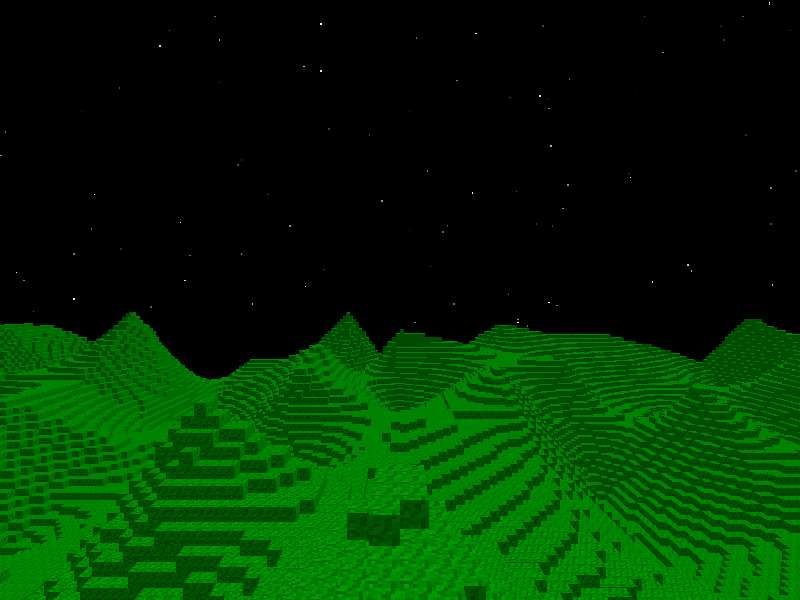
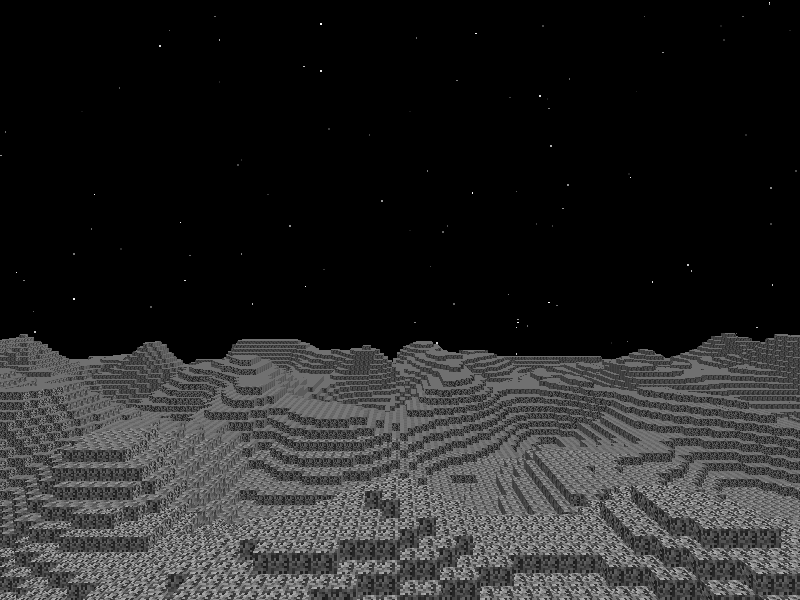
Use Perlin noise
Using the larger grid between random values in our heightmap means there
are slopes. However, the terrain still have sharp points at the grid
lines.

Rather than interpolating between random values, we can use a different
algorithm that produces smoother values. Perlin noise uses 2D vectors
instead of points at the grid intersections. It takes the dot product
between the vectors at each corner and the position within the grid.

diff --git a/src/world.rs b/src/world.rs
@@ -148,29 +148,64 @@ impl Camera {
 }
 
 /// Describes how elevation varies across the x-z plane.
+///
+/// For now, the heightmap works on local coordinates from 0..CHUNK_SIDE_LENGTH on the X and Z
+/// axis. The returned height must be within 0..CHUNK_SIDE_LENGTH.
+#[derive(Debug)]
 struct Heightmap {
     cell_size: f32,
     num_x_cells: u32,
     num_z_cells: u32,
-    heights: Vec<f32>,
+    gradients: Vec<Vec2>,
 }
 
 impl Heightmap {
+    /// Constructs a Perlin noise grid with random gradients.
     fn new(cell_size: f32, num_x_cells: u32, num_z_cells: u32) -> Self {
         let mut rng = RandomNumberGenerator::with_seed(32131);
 
         let num_values = ((num_z_cells + 1) * (num_x_cells + 1)) as usize;
-        let mut heights = Vec::with_capacity(num_values);
+        let mut gradients = Vec::with_capacity(num_values);
 
         for _ in 0..num_values {
-            heights.push(rng.gen_f32());
+            let angle = rng.gen_f32() * std::f32::consts::PI * 2.0;
+            gradients.push(Vec2::from_angle(angle));
         }
 
         Self {
             cell_size,
             num_x_cells,
             num_z_cells,
-            heights,
+            gradients,
+        }
+    }
+
+    /// Constructs a Perlin noise grid with the given gradients.
+    ///
+    /// The number of gradients must match the number of corners in the Perlin grid. The first
+    /// gradient is used for x_min / z_min in the grid. The next gradient moves along the x-axis
+    /// first until it reaches x_max, then it moves onto the next row in the z axis. This function
+    /// asserts that enough gradients are given to fit all of the grid corners.
+    #[cfg(test)]
+    fn with_gradients(
+        gradients: Vec<Vec2>,
+        cell_size: f32,
+        num_x_cells: u32,
+        num_z_cells: u32,
+    ) -> Self {
+        let expected_num_gradients = (num_x_cells + 1) * (num_z_cells + 1);
+
+        assert_eq!(
+            gradients.len(),
+            expected_num_gradients as usize,
+            "wrong number of gradients for heightmap"
+        );
+
+        Self {
+            cell_size,
+            num_x_cells,
+            num_z_cells,
+            gradients,
         }
     }
 
@@ -192,7 +227,8 @@ impl Heightmap {
         let x0_height = math::interpolate(x0z0_height, x0z1_height, z_frac);
         let x1_height = math::interpolate(x1z0_height, x1z1_height, z_frac);
 
-        math::interpolate(x0_height, x1_height, x_frac)
+        let height = math::interpolate(x0_height, x1_height, x_frac);
+        (height + 1.0) * 0.5
     }
 
     fn is_out_of_range(&self, xz_position: &Vec2) -> bool {
@@ -223,27 +259,59 @@ impl Heightmap {
 
     fn height_at_x0z0(&self, normalized_position: &Vec2) -> f32 {
         let Vec2(x, z) = *normalized_position;
-        self.height_at_index(x as usize, z as usize)
+
+        let xi = x as usize;
+        let zi = z as usize;
+
+        let corner_position = Vec2(xi as f32, zi as f32);
+        let gradient = self.gradient_at_index(xi, zi);
+
+        let offset = *normalized_position - corner_position;
+        gradient.dot(&offset)
     }
 
     fn height_at_x1z0(&self, normalized_position: &Vec2) -> f32 {
         let Vec2(x, z) = *normalized_position;
-        self.height_at_index((x as usize) + 1, z as usize)
+
+        let xi = x as usize + 1;
+        let zi = z as usize;
+
+        let corner_position = Vec2(xi as f32, zi as f32);
+        let gradient = self.gradient_at_index(xi, zi);
+
+        let offset = *normalized_position - corner_position;
+        gradient.dot(&offset)
     }
 
     fn height_at_x0z1(&self, normalized_position: &Vec2) -> f32 {
         let Vec2(x, z) = *normalized_position;
-        self.height_at_index(x as usize, (z as usize) + 1)
+
+        let xi = x as usize;
+        let zi = z as usize + 1;
+
+        let corner_position = Vec2(xi as f32, zi as f32);
+        let gradient = self.gradient_at_index(xi, zi);
+
+        let offset = *normalized_position - corner_position;
+        gradient.dot(&offset)
     }
 
     fn height_at_x1z1(&self, normalized_position: &Vec2) -> f32 {
         let Vec2(x, z) = *normalized_position;
-        self.height_at_index(x as usize + 1, z as usize + 1)
+
+        let xi = x as usize + 1;
+        let zi = z as usize + 1;
+
+        let corner_position = Vec2(xi as f32, zi as f32);
+        let gradient = self.gradient_at_index(xi, zi);
+
+        let offset = *normalized_position - corner_position;
+        gradient.dot(&offset)
     }
 
-    fn height_at_index(&self, xi: usize, zi: usize) -> f32 {
+    fn gradient_at_index(&self, xi: usize, zi: usize) -> Vec2 {
         let i = zi * self.num_x_cells as usize + xi;
-        self.heights[i]
+        self.gradients[i]
     }
 }
 
@@ -253,5 +321,90 @@ impl Coordinates {
     fn center(&self) -> Vec3 {
         let Self(x, y, z) = *self;
         Vec3(x as f32 + 0.5, y as f32 + 0.5, z as f32 + 0.5)
+    }
+}
+
+#[cfg(test)]
+mod tests {
+    use std::f32::consts::*;
+
+    use super::*;
+
+    #[test]
+    fn perlin_noise_single_grid_cell() {
+        // Create a 2D Perlin noise grid with one cell and four gradients (one for each corner). In
+        // this example, all gradients are unit vectors that point along either the X or Z axis.
+        let gradients = vec![
+            Vec2::from_angle(0.0),
+            Vec2::from_angle(-PI),
+            Vec2::from_angle(FRAC_PI_2),
+            Vec2::from_angle(-FRAC_PI_2),
+        ];
+
+        let heightmap = Heightmap::with_gradients(gradients, 1.0, 1, 1);
+
+        let examples = [
+            // Always zero at the grid corner
+            (Vec2(0.0, 0.0), 0.0),
+            // Halfway between two corners on X axis, both with gradients facing inward (max strength)
+            (Vec2(0.5, 0.0), 0.5),
+            // Strength drops as approaching either corner. Should drop equally on both sides.
+            (Vec2(0.25, 0.0), 0.375),
+            (Vec2(0.75, 0.0), 0.375),
+            // Along the Z axis, gradient faces away so should be negative
+            (Vec2(0.0, 0.5), -0.25),
+            (Vec2(0.0, 0.25), -0.1875),
+            (Vec2(0.0, 0.75), -0.1875),
+            // In the middle. The two gradients along Z=0 contribute 0.5, and the two gradients at
+            // Z=1 are facing opposite directions and cancel each other out (so 0.0), which results
+            // in an interpolated value of 0.25.
+            (Vec2(0.5, 0.5), 0.25),
+        ];
+
+        for (position, expected) in examples.into_iter() {
+            let actual = heightmap.height_at(&position);
+
+            assert!((actual - expected).abs() < 0.00001);
+        }
+    }
+
+    #[test]
+    fn perlin_noise_varying_cell_size() {
+        let small_cell_heightmap = Heightmap::new(1.0, 2, 2);
+        let big_cell_heightmap = Heightmap::new(16.0, 2, 2);
+
+        // Positions for the small cell and big cell heightmaps. The left and right values should
+        // return the same height value since they're in the same spot relative to the size of the
+        // grid.
+        let examples = [
+            (Vec2(0.0, 0.0), Vec2(0.0, 0.0)),
+            (Vec2(1.5, 0.5), Vec2(24.0, 8.0)),
+            (Vec2(1.0, 1.0), Vec2(16.0, 16.0)),
+        ];
+
+        for (small_position, big_position) in examples.into_iter() {
+            let small_cell_height = small_cell_heightmap.height_at(&small_position);
+            let big_cell_height = big_cell_heightmap.height_at(&big_position);
+
+            assert_eq!(small_cell_height, big_cell_height);
+        }
+    }
+
+    #[test]
+    fn perlin_noise_outside_of_cell_range() {
+        let heightmap = Heightmap::new(16.0, 2, 2);
+
+        // Positions outside of the grid range should return 0.0 height.
+        let examples = [
+            Vec2(-0.0001, 0.0),
+            Vec2(32.0, 32.0),
+            Vec2(32.0, 0.0),
+            Vec2(16.0, 32.0),
+            Vec2(-0.0001, 10.0),
+        ];
+
+        for position in examples.into_iter() {
+            assert_eq!(heightmap.height_at(&position), 0.0);
+        }
     }
 }

diff --git a/src/math.rs b/src/math.rs
@@ -1,13 +1,31 @@
-use std::ops::{Add, Div};
+use std::ops::{Add, Div, Sub};
 
 #[derive(Debug, Copy, Clone)]
 pub(crate) struct Vec2(pub(crate) f32, pub(crate) f32);
+
+impl Vec2 {
+    pub(crate) fn from_angle(angle: f32) -> Self {
+        Self(angle.cos(), angle.sin())
+    }
+
+    pub(crate) fn dot(&self, rhs: &Vec2) -> f32 {
+        self.0 * rhs.0 + self.1 * rhs.1
+    }
+}
 
 impl Div<f32> for Vec2 {
     type Output = Vec2;
 
     fn div(self, denominator: f32) -> Self::Output {
         Self(self.0 / denominator, self.1 / denominator)
+    }
+}
+
+impl Sub<Vec2> for Vec2 {
+    type Output = Vec2;
+
+    fn sub(self, rhs: Vec2) -> Self::Output {
+        Vec2(self.0 - rhs.0, self.1 - rhs.1)
     }
 }
 
@@ -124,6 +142,53 @@ mod tests {
         let vecs_equal = (a.0 - b.0).abs() < TOLERANCE
             && (a.1 - b.1).abs() < TOLERANCE
             && (a.2 - b.2).abs() < TOLERANCE;
+        assert!(
+            vecs_equal,
+            "vecs are not equal:\n  left: {:?}\n right: {:?}\n",
+            a, b
+        );
+    }
+
+    #[test]
+    fn check_distribution_of_random_f32s() {
+        const NUM_EXAMPLES: u32 = 10_000;
+        const NUM_BUCKETS: u32 = 10;
+        const EXPECTED_BUCKET_COUNT: u32 = NUM_EXAMPLES / NUM_BUCKETS;
+        const MAX_ALLOWED_DEVIATION: u32 = 100;
+
+        let mut buckets = [0; NUM_BUCKETS as usize];
+        let mut rng = RandomNumberGenerator::with_seed(314159);
+
+        for _ in 0..NUM_EXAMPLES {
+            let value = rng.gen_f32();
+            let i = (value / 0.1) as usize;
+            buckets[i] += 1;
+        }
+
+        for count in buckets.iter() {
+            assert!((*count - EXPECTED_BUCKET_COUNT as i32).unsigned_abs() < MAX_ALLOWED_DEVIATION);
+        }
+    }
+
+    #[test]
+    fn create_vec2_from_angle() {
+        let examples = [
+            (0.0, Vec2(1.0, 0.0)),
+            (PI, Vec2(-1.0, 0.0)),
+            (2.0 * PI, Vec2(1.0, 0.0)),
+            (FRAC_PI_2, Vec2(0.0, 1.0)),
+            (FRAC_PI_3, Vec2(0.5, 0.866025)),
+        ];
+
+        for (angle, expected) in examples.into_iter() {
+            let actual = Vec2::from_angle(angle);
+            assert_vec2s_equal(&actual, &expected);
+        }
+    }
+
+    fn assert_vec2s_equal(a: &Vec2, b: &Vec2) {
+        const TOLERANCE: f32 = 0.00001;
+        let vecs_equal = (a.0 - b.0).abs() < TOLERANCE && (a.1 - b.1).abs() < TOLERANCE;
         assert!(
             vecs_equal,
             "vecs are not equal:\n  left: {:?}\n right: {:?}\n",

diff --git a/src/render.rs b/src/render.rs
@@ -119,14 +119,18 @@ impl Renderer {
 
             const TEXTURE_WIDTH: usize = 8;
             const TEXTURE_HEIGHT: usize = 8;
+            const NUM_PIXELS: usize = TEXTURE_WIDTH * TEXTURE_HEIGHT;
             const VALUES_PER_PIXEL: usize = 3;
-            const TEXTURE_SIZE: usize = TEXTURE_WIDTH * TEXTURE_HEIGHT * VALUES_PER_PIXEL;
+            const TEXTURE_SIZE: usize = NUM_PIXELS * VALUES_PER_PIXEL;
 
             let mut rng = RandomNumberGenerator::with_seed(42);
-            let mut data: Vec<u8> = Vec::with_capacity(TEXTURE_SIZE);
+            let mut texture: Vec<u8> = Vec::with_capacity(TEXTURE_SIZE);
 
-            for _ in 0..TEXTURE_SIZE {
-                data.push(rng.gen_range(120, 180) as u8);
+            for _ in 0..NUM_PIXELS {
+                let value = rng.gen_range(50, 200) as u8;
+                texture.push(value);
+                texture.push(value);
+                texture.push(value);
             }
 
             gl::TexImage2D(
@@ -138,7 +142,7 @@ impl Renderer {
                 0,
                 gl::RGB,
                 gl::UNSIGNED_BYTE,
-                data.as_ptr() as *const c_void,
+                texture.as_ptr() as *const c_void,
             );
             gl::TexParameteri(gl::TEXTURE_2D, gl::TEXTURE_MAG_FILTER, gl::NEAREST as GLint);
             gl::TexParameteri(
@@ -337,7 +341,6 @@ impl Renderer {
         program.set_uniform_f32("camera_pitch", &camera.pitch());
 
         let mut program = self.activate_skybox_program();
-        program.set_uniform_vec3("camera_position", camera.position());
         program.set_uniform_f32("camera_heading", &camera.heading());
         program.set_uniform_f32("camera_pitch", &camera.pitch());
     }
